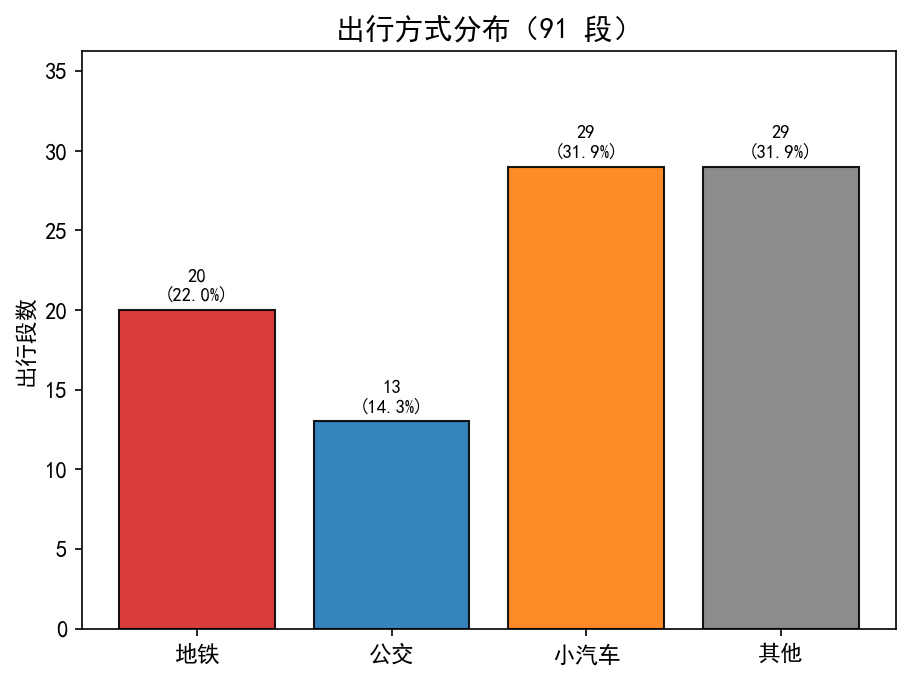
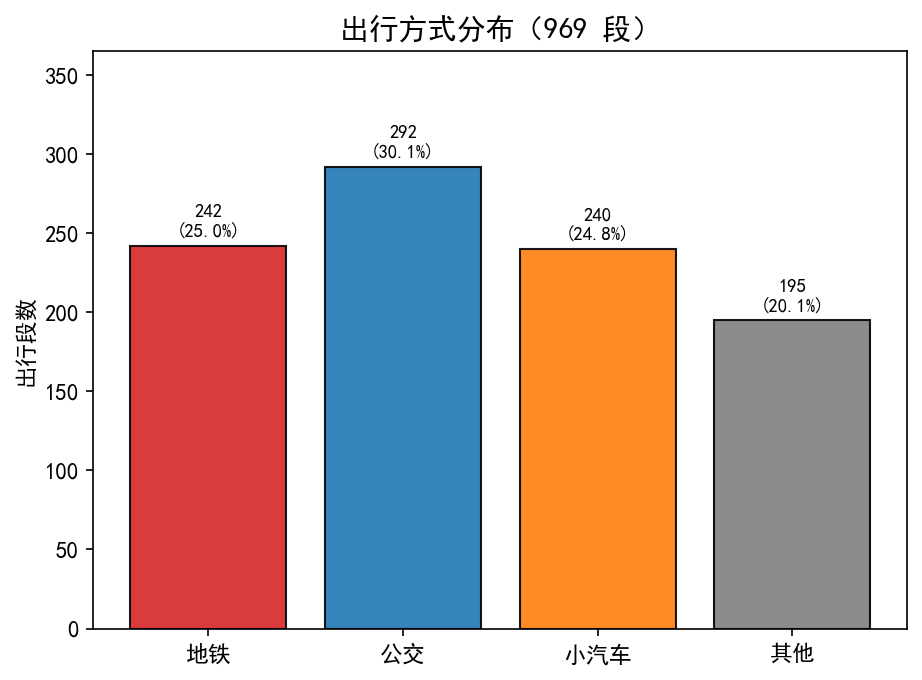
feat(阶段1): 低频点改为只标记不删，出行率 3.1% 提到 25.6%
课时32 的"同用户同坐标<4 次就删"删掉的点里，83.7% 是速度>8km/h 的移动点——
人在路上只会路过同一个基站一次，这批点被整批删掉后出行样本几乎归零。
现在 remove_low_freq 改成 mark_low_freq：统计照做、打上 is_low、一行不删。

连带更新：
- 图2 出行与驻留量级已经接近，删掉为"红线压成平线"补的放大格，峰值标注改指实测的 23 时；
- README 七节重写归因：2x2 对照实验（组员判据/我们的判据 x 两份数据）证明差异全部来自
  判据口径，底层数据没有失真；同时删掉"一天42%在移动不合常识"这条已被自己数据推翻的论证；
- 新增 2 个单测：低频点必须留在表里、1.4 公里外的一次性坐标仍算得出速度（共 24 项）。

全流程 9.6 秒（阶段2 进聚类的点 679 -> 5,399，耗时 0.1s -> 2.1s）。

diff --git a/tr_stage1.py b/tr_stage1.py
@@ -1,13 +1,14 @@
 # -*- coding: utf-8 -*-
 """
-tr_stage1.py —— 出行/驻留识别·阶段1：低频过滤 + 轨迹切段 + 速度粗筛（课时 31~34）
+tr_stage1.py —— 出行/驻留识别·阶段1：低频点标记 + 轨迹切段 + 速度粗筛（课时 31~34）
 
 入口 `stage1_analysis()`：读 cleaned_data.csv → 产出 stage1_travel_points.csv。
 
 粗筛只负责「求召回」，宁多勿漏：
   1. 低频点（课时 32）：同一用户在同一坐标出现 < LOW_FREQ_THRESHOLD 次，多半是基站切换
-     时的短暂路过或漂移，反连接删除，减少后面算速度的干扰；
-     注意阶段3 做最终判定时会用清洗全量点（含这些点，默认驻留 0），保证标签覆盖全量；
+     时的短暂路过或漂移。讲义口径是反连接删除，本项目改成**只标记 is_low 不删除**——
+     实测这些一次性坐标上压着 83.7% 的高速移动点，删掉就把出行样本删没了（详见 README 七）；
+     阶段3 做最终判定时用清洗全量点，保证标签覆盖全量；
   2. 轨迹切段（课时 32）：换用户或坐标一变就开新段，段内坐标相同，段间那条边就是潜在移动；
   3. 相邻点速度（课时 33）：groupby(imsi) 内取上一条坐标与时间，Haversine 距离 / 时间差；
      速度 <0 或 >ABNORMAL_SPEED 视为基站跳跃，置 NaN 而不是删行——该点的位置和时间仍有效；
@@ -22,16 +23,21 @@ import config
 from utils import haversine, log, log_step, parse_time, read_csv, save_csv, Timer
 
 
-def remove_low_freq(df):
-    """课时 32 第 2 步：按「同用户同坐标」统计出现次数，<阈值 的点用反连接删除。"""
-    before = len(df)
+def mark_low_freq(df):
+    """课时 32 第 2 步的低频统计照做，但只打 is_low 标记，不再删点。
+
+    删点的实测代价：速度>8km/h 的点里 83.7% 落在「同用户同坐标出现<4 次」的基站上——
+    那正是移动途中只驻留一次的基站，整批删掉后出行率从 25.6% 被压到 3.1%。
+    """
     loc_cnt = df.groupby(["imsi", "lon", "lat"]).size().reset_index(name="cnt")
     low_freq = loc_cnt[loc_cnt["cnt"] < config.LOW_FREQ_THRESHOLD][["imsi", "lon", "lat"]].copy()
     low_freq["_is_low"] = 1
     df = df.merge(low_freq, on=["imsi", "lon", "lat"], how="left")
-    df = df[df["_is_low"].isna()].drop(columns="_is_low").reset_index(drop=True)
-    log(f"低频点过滤（同用户同坐标 <{config.LOW_FREQ_THRESHOLD} 次）："
-        f"{before:,} -> {len(df):,}（删除 {before - len(df)}）")
+    df["is_low"] = df["_is_low"].notna().astype("int64")
+    df = df.drop(columns="_is_low")
+    n_low = int(df["is_low"].sum())
+    log(f"低频点标记（同用户同坐标 <{config.LOW_FREQ_THRESHOLD} 次）："
+        f"{len(df):,} 行中 {n_low:,} 个标记 is_low=1，全部保留不删除")
     return df
 
 
@@ -76,7 +82,7 @@ def compute_speed(df):
 
 def stage1_analysis(df=None):
     """执行阶段1，保存 stage1_travel_points.csv 并返回疑似出行点表。"""
-    log_step(2, "阶段1：低频点过滤 + 轨迹切段 + 速度粗筛")
+    log_step(2, "阶段1：低频点标记 + 轨迹切段 + 速度粗筛")
     if df is None:
         df = read_csv(config.CLEANED_DATA_FILE,
                       dtype={"imsi": str, "lac_id": str, "cell_id": str})
@@ -84,7 +90,7 @@ def stage1_analysis(df=None):
     df = df.sort_values(["imsi", "time"]).reset_index(drop=True).copy()
     df["time_dt"] = parse_time(df["time"])
 
-    df = remove_low_freq(df)
+    df = mark_low_freq(df)
     df = split_segments(df)
     df = compute_speed(df)
 

diff --git a/visualize.py b/visualize.py
@@ -64,9 +64,8 @@ def plot_stage3_pie(label_df):
 def plot_hour_line(label_df):
     """图2：24 小时出行/驻留叠在同一张图上（对齐讲义示例的排版）。
 
-    我们的出行点只有驻留点的几十分之一（本次约 1/31），直接共轴会把红线压成
-    贴在横轴上的一条平线，看着像画坏了。所以共轴保留示例的样子，
-    另在右上角补一个小格把红线单独放大——小格只换纵轴刻度，不改任何数值。
+    低频点改为保留后出行/驻留量级接近（本次驻留约为出行的 2.9 倍），共轴直接画，
+    不再需要放大小格；早晚高峰用淡蓝底纹标注，只是标注、不参与判定。
     左右双轴（两条线各自一套刻度）不用：那会让两条线看起来可比，
     读者会按交叉点误读「什么时候出行超过了驻留」。
     """
@@ -87,24 +86,16 @@ def plot_hour_line(label_df):
     ax.legend(loc="upper left")
     ax.grid(alpha=.3)
 
-    # 示例图在这里标的是「早高峰」，但我们这份数据的出行最高点在 6 时、早晚高峰底纹里
-    # 出行并没有抬起来，照写「早高峰」就成了图上没有的结论，所以只标实测最高点。
+    # 示例图在这里标的是「早高峰」，但我们这份数据的出行最高点在 23 时，
+    # 早晚高峰底纹里出行并没有明显抬起来，照写「早高峰」就成了图上没有的结论，
+    # 所以只标实测最高点；峰值落在傍晚以远时把文字放到左侧，避免画出坐标外。
     peak_hour = int(travel.idxmax())
     ax.annotate(f"出行最高 {peak_hour}时（{int(travel.max())} 点）",
                 (peak_hour, travel.max()),
-                xytext=(peak_hour + 1.5, travel.max() + stay.max() * .28),
+                xytext=(peak_hour - 6.5 if peak_hour >= 18 else peak_hour + 1.5,
+                        travel.max() + stay.max() * .12),
                 arrowprops=dict(arrowstyle="->", color=RED, lw=1.2),
                 color=RED, fontsize=9)
-
-    inset = ax.inset_axes([0.55, 0.52, 0.42, 0.34])
-    for start, end, _ in config.PEAK_HOURS:
-        inset.axvspan(start, end, color="#1f77b4", alpha=.10)
-    inset.plot(hours, travel.values, marker="^", color=RED)
-    inset.fill_between(hours, travel.values, alpha=.15, color=RED)
-    inset.set_ylim(0, travel.max() * 1.25)
-    inset.set_xticks([0, 6, 12, 18, 23])
-    inset.set_title(f"出行点单独放大（0~{int(travel.max())}，只为看清形状）", fontsize=8)
-    inset.tick_params(labelsize=7)
 
     fig.suptitle(f"24 小时出行 / 驻留点分布（同一坐标叠画：驻留量级约为出行的 "
                  f"{stay.sum() / max(travel.sum(), 1):.0f} 倍）")

diff --git a/test_utils.py b/test_utils.py
@@ -2,8 +2,8 @@
 """
 test_utils.py —— 课时 58 §三.4 建议优先测试的纯函数
 
-覆盖四组：haversine（同点为0/单位换算/已知距离）、kmeans（两团能分开、中心不出 NaN、
-同坐标不拆簇）、choose_best_k（全同点不拆 / 真远点仍拆）、
+覆盖五组：haversine（同点为0/单位换算/已知距离）、kmeans（两团能分开、中心不出 NaN、
+同坐标不拆簇）、choose_best_k（全同点不拆 / 真远点仍拆）、mark_low_freq（低频点保留且算得出速度）、
 decide_purpose（居住/购物/旅游/其他 + 窗口覆盖 bug 回归）、毫秒时间戳 +8 转换。
 
 跑法：
@@ -17,6 +17,7 @@ import pandas as pd
 
 import config
 import data_clean
+import tr_stage1
 from purpose import decide_purpose
 from tr_stage2 import choose_best_k, kmeans
 from utils import haversine, is_night, parse_time, project_to_meters
@@ -181,6 +182,31 @@ class TestDecidePurpose(unittest.TestCase):
 
     def test_outside_all_windows_is_other(self):
         self.assertEqual(decide_purpose(self._row(start_hour=7, end_hour=23)), "其他")
+
+
+class TestMarkLowFreq(unittest.TestCase):
+    """阶段1 低频点：只标记不删除。删掉会连带删掉移动路上只出现一次的基站坐标。"""
+
+    def _df(self):
+        """四个 home 点（达到高频阈值）+ 一个正北 1.4 km、只出现一次的点。"""
+        home = (123.4119, 41.8052)
+        far = (123.4119, 41.8178)
+        rows = [dict(imsi="u1", lon=home[0], lat=home[1])
+                for _ in range(config.LOW_FREQ_THRESHOLD)]
+        rows.append(dict(imsi="u1", lon=far[0], lat=far[1]))
+        df = pd.DataFrame(rows)
+        df["time_dt"] = pd.date_range("2018-10-03 08:00", periods=len(df), freq="10min")
+        return df
+
+    def test_low_freq_rows_are_kept(self):
+        out = tr_stage1.mark_low_freq(self._df())
+        self.assertEqual(len(out), len(self._df()))
+        self.assertEqual(out["is_low"].tolist(), [0, 0, 0, 0, 1])
+
+    def test_far_low_freq_point_still_gets_speed(self):
+        """10 分钟挪 1.4 km = 8.4 km/h，这个点必须留得下来、算得出速度。"""
+        out = tr_stage1.compute_speed(tr_stage1.mark_low_freq(self._df()))
+        self.assertGreater(out["speed"].iloc[-1], config.SPEED_THRESHOLD)
 
 
 if __name__ == "__main__":

diff --git a/tools/report.py b/tools/report.py
@@ -156,7 +156,7 @@ def build(s):
     A("config.py       全部路径与阈值（改参数只改这里，python config.py 自检输入文件）")
     A("utils.py        Haversine / pairwise 欧氏 / 计时器 / 中文字体 / 读写 / 日志")
     A("data_clean.py   ① 九条清洗规则 + 整用户抽样")
-    A("tr_stage1.py    ② 阶段1：低频点删除 + 连续段 + 相邻点速度粗筛")
+    A("tr_stage1.py    ② 阶段1：低频点标记（不删） + 连续段 + 相邻点速度粗筛")
     A("tr_stage2.py    ③ 阶段2：手写 K-Means + 轮廓系数&邓恩指数选 K")
     A("tr_stage3.py    ④ 阶段3：三点距离 + 首末时间跨度规则精判")
     A("purpose.py      ⑤ 出行目的：POI 空间证据 + 时间窗兜底")
@@ -198,7 +198,8 @@ def build(s):
 
     A("## 四、② 阶段1 连续段与速度粗筛")
     A("")
-    A(f"- 低频点（同用户同坐标出现 < {config.LOW_FREQ_THRESHOLD} 次）按讲义口径**直接删除**；")
+    A(f"- 低频点（同用户同坐标出现 < {config.LOW_FREQ_THRESHOLD} 次）只打 is_low 标记、**不删行**"
+      f"（讲义口径是删除，本项目实测删除会连带删掉 83.7% 的高速移动点，见 README 七）；")
     A(f"- 相邻点速度 > {config.SPEED_THRESHOLD} km/h 判疑似出行，得到 "
       f"{f1['出行点数']:,} 个出行点（占清洗点 {f1['占清洗点%']}%）；")
     A(f"- 速度 <0 或 >{config.ABNORMAL_SPEED} km/h 视为基站跳跃，置 NaN 不参与判定"

diff --git a/config.py b/config.py
@@ -77,7 +77,7 @@ RANDOM_STATE = 42                 # 抽样与聚类的统一随机种子
 # ----------------------------------------------------------------------
 # 阶段1：低频点 + 切段 + 相邻点速度（课时 31~34）
 # ----------------------------------------------------------------------
-LOW_FREQ_THRESHOLD = 4            # 课时 32：同用户同坐标 < 4 次视为基站抖动，反连接删除
+LOW_FREQ_THRESHOLD = 4            # 课时 32：同用户同坐标 < 4 次视为低频，只标记 is_low 不删点
 SPEED_THRESHOLD = 8.0             # 课时 33：相邻点速度 > 8 km/h → 疑似出行点
 ABNORMAL_SPEED = 200              # 速度 <0 或 >200 km/h 视为基站跳跃异常，置 NaN
 

diff --git a/result/项目总结报告.md b/result/项目总结报告.md
@@ -1,14 +1,14 @@
 # 交通时空数据分析项目总结报告
 
-生成时间：2026-10-15 14:51 ｜ 目标日期：20181003 ｜ 数据：沈阳运营商基站信令定位数据 ｜ 抽样口径：SAMPLE_ROWS = 20000（整用户抽样）
+生成时间：2026-10-15 22:32 ｜ 目标日期：20181003 ｜ 数据：沈阳运营商基站信令定位数据 ｜ 抽样口径：SAMPLE_ROWS = 20000（整用户抽样）
 
 ## 一、总体结论
 
-- 清洗后得到 **17,362 个定位点 / 196 位用户 / 1433 个坐标**，时间范围 20181003000024 ~ 20181003235733；
-- 阶段1 速度粗筛挑出 **806 个疑似出行点**（占清洗点 4.6%），相邻点速度中位 17.1 km/h；
-- 阶段2 手写 K-Means 按用户聚类，得到 **275 个簇**（152 个单点簇），最优 K 区间 1~7、均值 2.18；
-- 阶段3 三点距离 + 首末跨度精判：**出行 699 点（4.0%）、驻留 16,663 点**，出行点来源 = 单点簇 152 + 多点簇 547；
-- 阶段4 出行目的：740 个驻留段，POI 空间匹配率 92.3%；阶段5 出行方式：97 个出行段；
+- 清洗后得到 **19,987 个定位点 / 235 位用户 / 1563 个坐标**，时间范围 20181003000002 ~ 20181003235737；
+- 阶段1 速度粗筛挑出 **5,399 个疑似出行点**（占清洗点 27.0%），相邻点速度中位 21.8 km/h；
+- 阶段2 手写 K-Means 按用户聚类，得到 **1179 个簇**（688 个单点簇），最优 K 区间 1~10、均值 5.06；
+- 阶段3 三点距离 + 首末跨度精判：**出行 5,117 点（25.6%）、驻留 14,870 点**，出行点来源 = 单点簇 688 + 多点簇 4429；
+- 阶段4 出行目的：1900 个驻留段，POI 空间匹配率 91.5%；阶段5 出行方式：969 个出行段；
 - 实时热力：4,640 条非零 10 分钟窗口记录，峰值 2,570 人出现在 太原街商圈（2018-10-03 23:09:00）；
 - 全部数字可由 `python main.py` 一次性重跑复现（同种子结果一致）。
 
@@ -18,7 +18,7 @@
 config.py       全部路径与阈值（改参数只改这里，python config.py 自检输入文件）
 utils.py        Haversine / pairwise 欧氏 / 计时器 / 中文字体 / 读写 / 日志
 data_clean.py   ① 九条清洗规则 + 整用户抽样
-tr_stage1.py    ② 阶段1：低频点删除 + 连续段 + 相邻点速度粗筛
+tr_stage1.py    ② 阶段1：低频点标记（不删） + 连续段 + 相邻点速度粗筛
 tr_stage2.py    ③ 阶段2：手写 K-Means + 轮廓系数&邓恩指数选 K
 tr_stage3.py    ④ 阶段3：三点距离 + 首末时间跨度规则精判
 purpose.py      ⑤ 出行目的：POI 空间证据 + 时间窗兜底
@@ -48,22 +48,22 @@ python tools/report.py        # 重建本总结报告
 
 抽样单位用「整用户」而不是「整行」：随机抽行会把同一个人的连续轨迹抽碎，随后规则9（每人当天点数 ≥ 20）会把普通用户几乎全删光。
 
-最终清洗产物：17,362 点 / 196 用户 / 1433 个坐标，六列 ['imsi', 'time', 'lac_id', 'cell_id', 'lon', 'lat']。
+最终清洗产物：19,987 点 / 235 用户 / 1563 个坐标，六列 ['imsi', 'time', 'lac_id', 'cell_id', 'lon', 'lat']。
 
 ## 四、② 阶段1 连续段与速度粗筛
 
-- 低频点（同用户同坐标出现 < 4 次）按讲义口径**直接删除**；
-- 相邻点速度 > 8.0 km/h 判疑似出行，得到 806 个出行点（占清洗点 4.6%）；
+- 低频点（同用户同坐标出现 < 4 次）只打 is_low 标记、**不删行**（讲义口径是删除，本项目实测删除会连带删掉 83.7% 的高速移动点，见 README 七）；
+- 相邻点速度 > 8.0 km/h 判疑似出行，得到 5,399 个出行点（占清洗点 27.0%）；
 - 速度 <0 或 >200 km/h 视为基站跳跃，置 NaN 不参与判定（保留在表里供检查，不做删除）；
-- 出行点速度中位 17.1 km/h、最大 197.2 km/h。
+- 出行点速度中位 21.8 km/h、最大 199.5 km/h。
 
 阶段1 是**高召回粗筛**：宁可多留点交给阶段2/3 精判，也不在这里下最终结论。
 
 ## 五、③ 阶段2 手写 K-Means 聚类
 
-- 只对阶段1 的 806 个出行点、按用户分组聚类，共 126 位用户；
-- 遍历 K=2~10，评分 `score = 轮廓系数 + 0.1 × 邓恩指数`；最优 K 最小 1、最大 7、平均 2.18；
-- 得到 275 个簇，其中 152 个单点簇——单点簇没有「跨度」可言，阶段3 直接补判为出行。
+- 只对阶段1 的 5,399 个出行点、按用户分组聚类，共 233 位用户；
+- 遍历 K=2~10，评分 `score = 轮廓系数 + 0.1 × 邓恩指数`；最优 K 最小 1、最大 10、平均 5.06；
+- 得到 1179 个簇，其中 688 个单点簇——单点簇没有「跨度」可言，阶段3 直接补判为出行。
 
 K-Means 内部用广播 `(n,1,2) - (1,k,2) → (n,k,2)` 一次算完所有距离；空簇保留上一轮中心，避免对空集取均值得到 NaN。距离矩阵在 K 循环外只算一次、各 K 复用；逐用户循环前先 `np.random.seed(42)` 一次，同参数重跑标签完全一致（见 `tools/selfcheck.py` 第 4 项）。
 
@@ -73,12 +73,12 @@ K-Means 内部用广播 `(n,1,2) - (1,k,2) → (n,k,2)` 一次算完所有距离
 
 | 点来源          |    点数 |
 | :--- | ---: |
-| 单点簇直接判出行     |   152 |
-| 多点簇不满足双条件判出行 |   547 |
-| 多点簇满足双条件判驻留  |   107 |
-| 未参与聚类默认驻留    | 16556 |
+| 单点簇直接判出行     |   688 |
+| 多点簇不满足双条件判出行 |  4429 |
+| 多点簇满足双条件判驻留  |   282 |
+| 未参与聚类默认驻留    | 14588 |
 
-最终：出行 699 点（4.0%）、驻留 16,663 点。
+最终：出行 5,117 点（25.6%）、驻留 14,870 点。
 
 注意 label 方向：**1 = 出行、0 = 驻留**，且默认值是 0——「未参加聚类的点保守判驻留」，宁可少判出行也不把停留误判成赶路。阶段4 从 label==0 切驻留段，阶段5 从 label==1 切出行段。
 
@@ -90,14 +90,14 @@ K-Means 内部用广播 `(n,1,2) - (1,k,2) → (n,k,2)` 一次算完所有距离
 
 | 类别 |   段 |  占比% |
 | :--- | ---: | ---: |
-| 居住 | 234 | 31.6 |
-| 购物 | 165 | 22.3 |
-| 旅游 | 112 | 15.1 |
-| 其他 | 229 | 30.9 |
+| 居住 | 243 | 12.8 |
+| 购物 | 673 | 35.4 |
+| 旅游 | 446 | 23.5 |
+| 其他 | 538 | 28.3 |
 
-合计 740 段。
+合计 1,900 段。
 
-共 740 个驻留段，POI 空间匹配率 92.3%。
+共 1900 个驻留段，POI 空间匹配率 91.5%。
 
 ## 八、⑥ 出行方式识别
 
@@ -105,16 +105,16 @@ K-Means 内部用广播 `(n,1,2) - (1,k,2) → (n,k,2)` 一次算完所有距离
 
 地铁表只有 68 个站、公交表 900 个站，公交站密集容易误命中，所以公交的邻近点门槛（≥3）比地铁（≥2）更高。
 
-| 类别  |  段 |  占比% |
+| 类别  |   段 |  占比% |
 | :--- | ---: | ---: |
-| 地铁  |  3 |  3.1 |
-| 公交  | 28 | 28.9 |
-| 小汽车 | 37 | 38.1 |
-| 其他  | 29 | 29.9 |
+| 地铁  | 242 | 25.0 |
+| 公交  | 292 | 30.1 |
+| 小汽车 | 240 | 24.8 |
+| 其他  | 195 | 20.1 |
 
-合计 97 段。
+合计 969 段。
 
-共 97 个出行段（每段 ≥2 点才能算速度，单点段在建段阶段已丢弃）；段均速中位 22.1 km/h、段距离中位 0.37 km。
+共 969 个出行段（每段 ≥2 点才能算速度，单点段在建段阶段已丢弃）；段均速中位 24.1 km/h、段距离中位 2.82 km。
 
 ## 九、⑦ 实时商圈 10 分钟滚动窗口热力
 
@@ -153,19 +153,19 @@ K-Means 内部用广播 `(n,1,2) - (1,k,2) → (n,k,2)` 一次算完所有距离
 
 | 产物      | 文件                       | 大小        |
 | :--- | :--- | :--- |
-| 清洗数据    | cleaned_data.csv         | 1250.6 KB |
-| 阶段1出行点  | stage1_travel_points.csv | 62.6 KB   |
-| 阶段2聚类结果 | stage2_cluster.csv       | 65.8 KB   |
-| 阶段3标签   | stage3_label.csv         | 1284.5 KB |
-| 出行目的    | purpose_result.csv       | 92.1 KB   |
-| 出行方式    | mode_result.csv          | 11.5 KB   |
+| 清洗数据    | cleaned_data.csv         | 1439.4 KB |
+| 阶段1出行点  | stage1_travel_points.csv | 419.8 KB  |
+| 阶段2聚类结果 | stage2_cluster.csv       | 440.9 KB  |
+| 阶段3标签   | stage3_label.csv         | 1478.4 KB |
+| 出行目的    | purpose_result.csv       | 237.5 KB  |
+| 出行方式    | mode_result.csv          | 113.5 KB  |
 | 实时热力    | heatmap_result.csv       | 176.7 KB  |
-| 图 1     | fig_stage3_pie.png       | 33.1 KB   |
-| 图 2     | fig_hour_line.png        | 95.2 KB   |
-| 图 3     | fig_purpose_bar.png      | 32.6 KB   |
-| 图 4     | fig_mode_bar.png         | 30.1 KB   |
-| 图 5     | fig_heatmap.png          | 55.8 KB   |
-| 图 6     | fig_3d_traj.png          | 193.6 KB  |
+| 图 1     | fig_stage3_pie.png       | 31.4 KB   |
+| 图 2     | fig_hour_line.png        | 104.0 KB  |
+| 图 3     | fig_purpose_bar.png      | 37.4 KB   |
+| 图 4     | fig_mode_bar.png         | 34.8 KB   |
+| 图 5     | fig_heatmap.png          | 89.8 KB   |
+| 图 6     | fig_3d_traj.png          | 171.4 KB  |
 
 ## 十二、局限与改进方向
 
